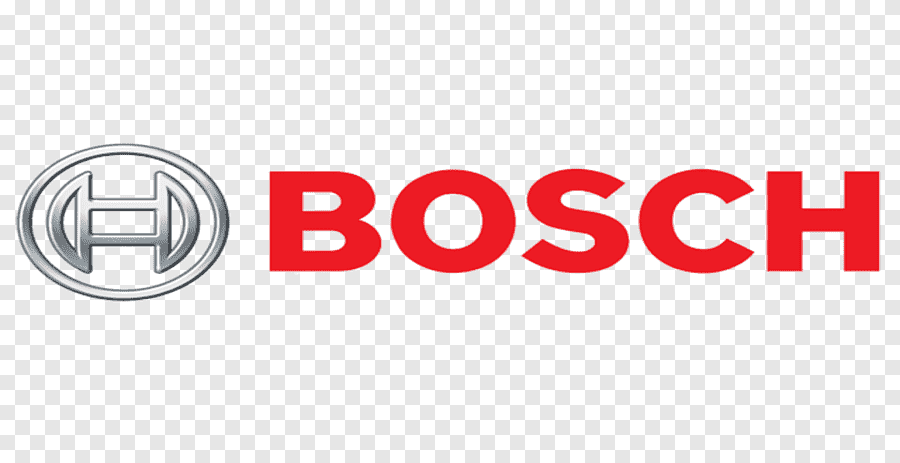
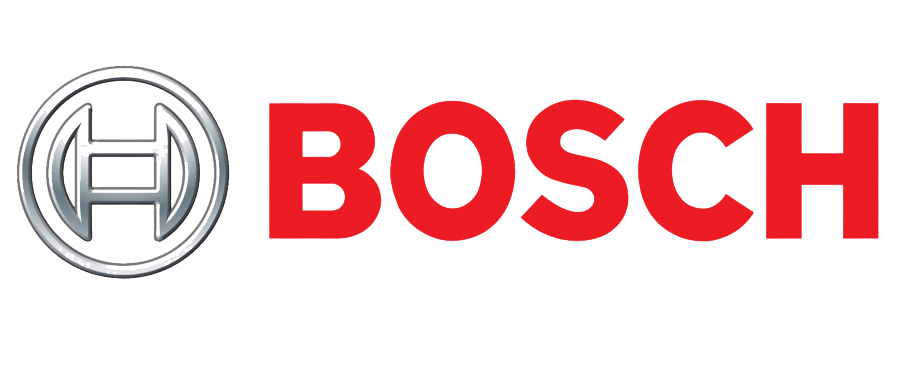
cambios algunos!

diff --git a/index.html b/index.html
@@ -75,7 +75,7 @@
                         <img class="embed-responsive embed-responsive-16by9" src="Img/sachs.png" alt="sachs" width="1000" height="300">
                      </div>
                      <div class="carousel-item">
-                        <img class="embed-responsive embed-responsive-16by9" src="Img/taranto.png" alt="taranto" width="1000" height="300">
+                        <img class="embed-responsive embed-responsive-16by9" src="Img/bosch.png" alt="taranto" width="1000" height="300">
                      </div>
                      <div class="carousel-item">
                         <img class="embed-responsive embed-responsive-16by9" src="Img/total.png" alt="taranto" width="1000" height="300">
@@ -167,9 +167,6 @@
       <div class="enviar">
          <input class="botonEnviar" type="submit" value="Enviar Consulta">
       </div>
-      <h3>¡¡¡ADEMAS TE OFRECEMOS UN CURSO DE MECANICA!!!</h3>
-      <iframe class="embed-responsive embed-responsive-16by9" src="https://www.youtube.com/embed/uzKnnNizimM" title="YouTube video player" frameborder="0" allow="accelerometer; autoplay; clipboard-write; encrypted-media; gyroscope; picture-in-picture" allowfullscreen></iframe>
-   </div>
 </section>
       <section class="hojas">
          <h2 class="hojas__titulo">Marcas principales con las que trabajamos</h2>

diff --git a/scss/archivo.scss b/scss/archivo.scss
@@ -286,6 +286,7 @@ h2{
 }
 img{
   border-radius: 20px;
+  margin-left: 10px;
 }
 .contenedor{
     position: relative;

diff --git a/scss/archivo.css b/scss/archivo.css
@@ -390,6 +390,7 @@ h2 {
 
 img {
   border-radius: 20px;
+  margin-left: 10px;
 }
 
 .contenedor {
